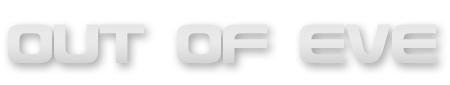
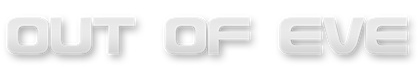
#28 minimise space occupied by title image

diff --git a/templates/dark/index.html b/templates/dark/index.html
@@ -56,9 +56,7 @@
 
     <div id="header-full">
       <div id="header">
-        <div style="float: left;">
-          <a href="{$site_url}/"><img src="{$site_url}/templates/{$theme}/images/title.png" border="0" /></a>
-        </div>
+        <a href="{$site_url}/"><img src="{$site_url}/templates/{$theme}/images/title.png" border="0" /></a>
       </div>
     </div>
 

diff --git a/templates/dark/style.css b/templates/dark/style.css
@@ -83,10 +83,9 @@ body {
     width: 1200px;
     margin-left: auto;
     margin-right: auto;
-    height: 85px;
     margin-bottom: 10px;
-    font-size: large;
     padding: 0px;
+    line-height: 0px;
 }
 
 #container {
